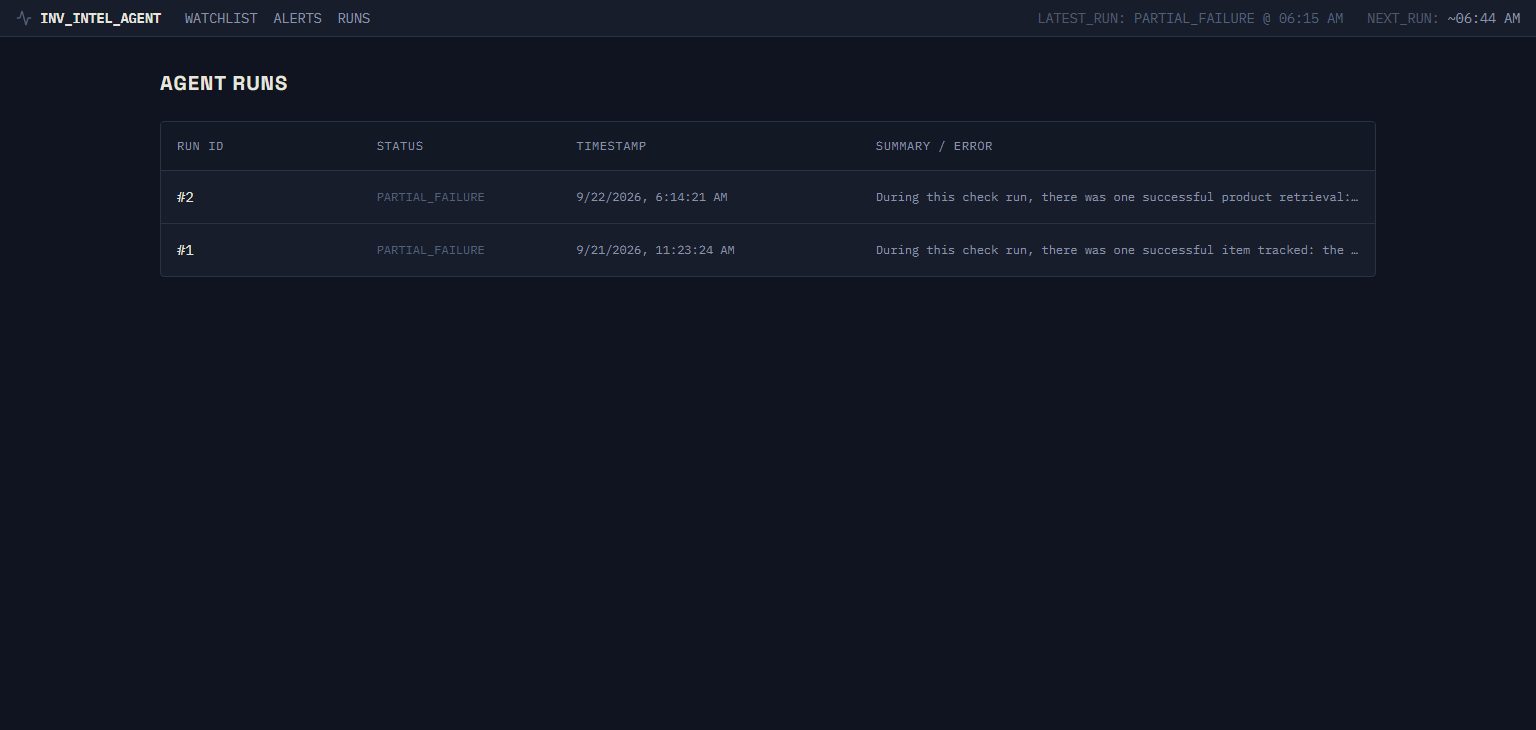
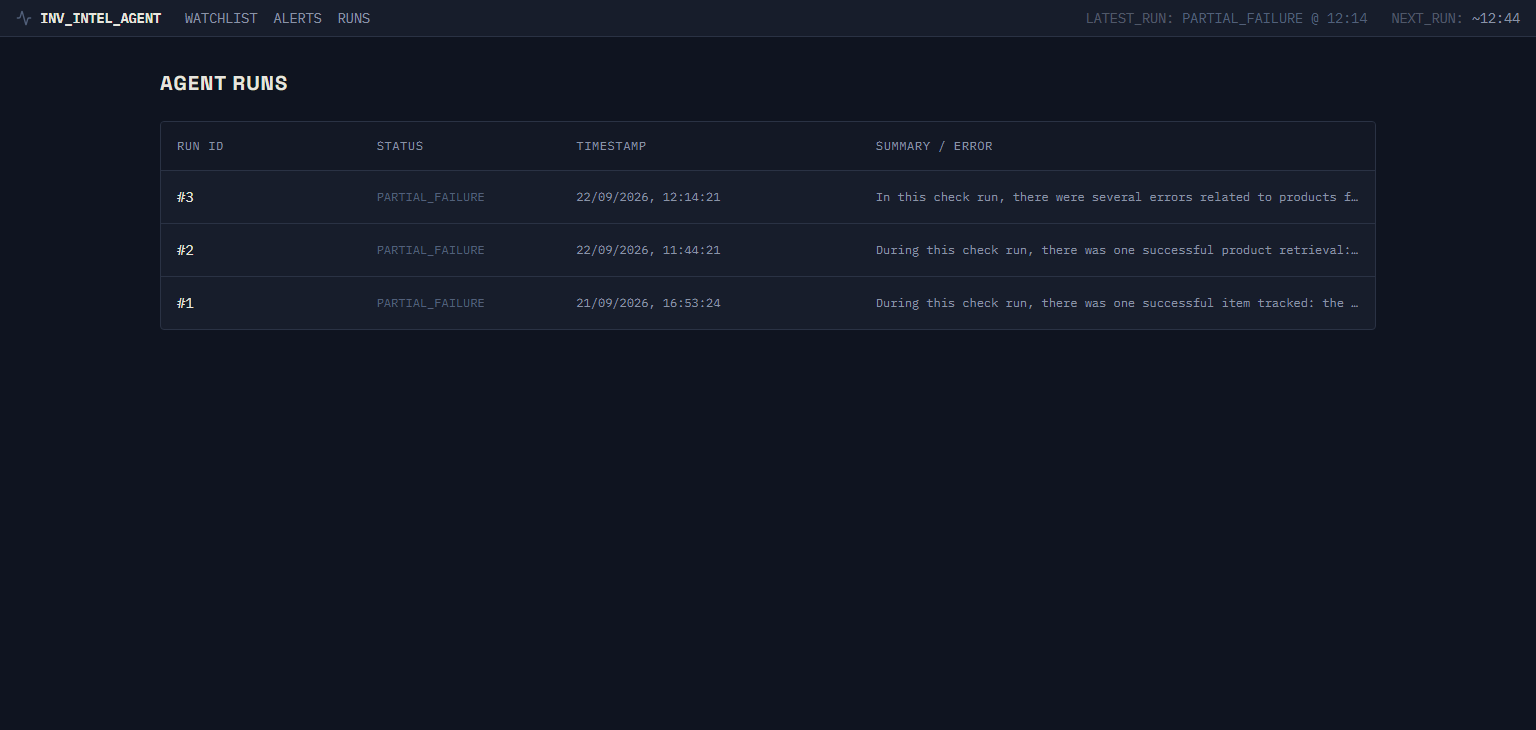
Fix dashboard routing regressions and timezone display bug from redesign

diff --git a/dashboard/app/layout.tsx b/dashboard/app/layout.tsx
@@ -3,6 +3,7 @@ import { Space_Grotesk, IBM_Plex_Mono } from "next/font/google";
 import "./globals.css";
 import Link from "next/link";
 import { Activity } from "lucide-react";
+import { LocalTime } from "./LocalTime";
 
 const spaceGrotesk = Space_Grotesk({ subsets: ["latin"], variable: "--font-space" });
 const plexMono = IBM_Plex_Mono({ weight: ['400', '500', '600', '700'], subsets: ["latin"], variable: "--font-plex" });
@@ -35,11 +36,10 @@ export default async function RootLayout({
   const latestRun = await getSystemState();
   const intervalMinutes = parseInt(process.env.AGENT_RUN_INTERVAL_MINUTES || "30", 10);
   
-  let nextRunTime = "Unknown";
+  let nextRunTimestamp: string | number = "Unknown";
   if (latestRun && latestRun.started_at) {
       const lastRunTime = new Date(latestRun.started_at).getTime();
-      const nextRunDate = new Date(lastRunTime + intervalMinutes * 60000);
-      nextRunTime = nextRunDate.toLocaleTimeString([], { hour: '2-digit', minute: '2-digit' });
+      nextRunTimestamp = lastRunTime + intervalMinutes * 60000;
   }
 
   let statusColor = "text-neutral";
@@ -68,16 +68,18 @@ export default async function RootLayout({
           <div className="flex items-center gap-4 sm:gap-6 text-text-secondary">
             {latestRun ? (
               <>
-                <div className="flex gap-2">
+                <div className="flex gap-2 items-center">
                   <span className="opacity-50 hidden sm:inline">LATEST_RUN:</span>
                   <span className={statusColor}>
                     {latestRun.status.toUpperCase()}
-                    {latestRun.finished_at && ` @ ${new Date(latestRun.finished_at).toLocaleTimeString([], { hour: '2-digit', minute: '2-digit' })}`}
+                    {latestRun.finished_at && (
+                      <> @ <LocalTime timestamp={latestRun.finished_at} format="time" /></>
+                    )}
                   </span>
                 </div>
-                <div className="flex gap-2">
+                <div className="flex gap-2 items-center">
                   <span className="opacity-50 hidden sm:inline">NEXT_RUN:</span>
-                  <span>~{nextRunTime}</span>
+                  <span>~<LocalTime timestamp={nextRunTimestamp} format="time" /></span>
                 </div>
               </>
             ) : (

diff --git a/dashboard/app/runs/[id]/page.tsx b/dashboard/app/runs/[id]/page.tsx
@@ -1,4 +1,5 @@
 import Link from "next/link";
+import { LocalTime } from "../../LocalTime";
 
 export const revalidate = 0;
 
@@ -12,8 +13,9 @@ async function getRun(id: string) {
   return res.json();
 }
 
-export default async function RunDetailPage({ params }: { params: { id: string } }) {
-  const run = await getRun(params.id);
+export default async function RunDetailPage({ params }: { params: Promise<{ id: string }> }) {
+  const { id } = await params;
+  const run = await getRun(id);
 
   if (!run) return <div>Run not found</div>;
 
@@ -29,7 +31,7 @@ export default async function RunDetailPage({ params }: { params: { id: string }
         <div className="px-4 py-5 sm:px-6">
           <h3 className="text-lg leading-6 font-medium text-gray-900">Agent Run #{run.id}</h3>
           <p className="mt-1 max-w-2xl text-sm text-gray-500">
-            Started: {new Date(run.started_at).toLocaleString()} | Status: {run.status}
+            Started: <LocalTime timestamp={run.started_at} format="datetime" /> | Status: {run.status}
           </p>
         </div>
         <div className="border-t border-gray-200 px-4 py-5 sm:px-6">

diff --git a/dashboard/app/LocalTime.tsx b/dashboard/app/LocalTime.tsx
@@ -1,0 +1,22 @@
+"use client";
+
+import { useEffect, useState } from "react";
+
+export function LocalTime({ timestamp, format = "datetime" }: { timestamp: string | number, format?: "datetime" | "time" | "date" }) {
+  const [localTime, setLocalTime] = useState<string>("");
+
+  useEffect(() => {
+    const d = new Date(timestamp);
+    if (format === "time") {
+      setLocalTime(d.toLocaleTimeString([], { hour: '2-digit', minute: '2-digit' }));
+    } else if (format === "date") {
+      setLocalTime(d.toLocaleDateString());
+    } else {
+      setLocalTime(d.toLocaleString());
+    }
+  }, [timestamp, format]);
+
+  // Prevent hydration mismatch by rendering empty or a placeholder on the server
+  // or rendering the raw string, but it's safer to just return nothing or the server-rendered UTC until mounted.
+  return <span suppressHydrationWarning>{localTime || "---"}</span>;
+}

diff --git a/dashboard/app/alerts/page.tsx b/dashboard/app/alerts/page.tsx
@@ -1,4 +1,5 @@
 import Link from "next/link";
+import { LocalTime } from "../LocalTime";
 
 export const revalidate = 0;
 
@@ -52,7 +53,7 @@ export default async function AlertsPage() {
             return (
               <div key={alert.id} className="grid grid-cols-1 sm:grid-cols-12 gap-4 p-4 items-center text-sm hover:bg-ink/30 transition-colors">
                 <div className="col-span-1 sm:col-span-3 font-mono text-text-secondary text-xs">
-                  {new Date(alert.timestamp).toLocaleString()}
+                  <LocalTime timestamp={alert.timestamp} format="datetime" />
                 </div>
                 
                 <div className="col-span-1 sm:col-span-2 font-mono text-xs uppercase">

diff --git a/dashboard/app/runs/page.tsx b/dashboard/app/runs/page.tsx
@@ -1,4 +1,5 @@
 import Link from "next/link";
+import { LocalTime } from "../LocalTime";
 
 export const revalidate = 0;
 
@@ -54,7 +55,7 @@ export default async function RunsPage() {
                   </div>
                   
                   <div className="col-span-1 sm:col-span-3 font-mono text-text-secondary text-xs">
-                    {new Date(run.started_at).toLocaleString()}
+                    <LocalTime timestamp={run.started_at} format="datetime" />
                   </div>
                   
                   <div className="col-span-1 sm:col-span-5 font-mono text-xs">

diff --git a/dashboard/app/products/[id]/page.tsx b/dashboard/app/products/[id]/page.tsx
@@ -28,8 +28,9 @@ async function getProductAndHistory(id: string) {
   }
 }
 
-export default async function ProductPage({ params }: { params: { id: string } }) {
-  const { product, priceHistory, stockHistory } = await getProductAndHistory(params.id);
+export default async function ProductPage({ params }: { params: Promise<{ id: string }> }) {
+  const { id } = await params;
+  const { product, priceHistory, stockHistory } = await getProductAndHistory(id);
 
   if (!product) {
     return (

diff --git a/get_header.py b/get_header.py
@@ -1,0 +1,21 @@
+import asyncio
+from playwright.async_api import async_playwright
+
+async def run():
+    async with async_playwright() as p:
+        browser = await p.chromium.launch()
+        page = await browser.new_page()
+        await page.goto("http://localhost:3000/")
+        await page.wait_for_timeout(2000)
+        
+        # Get the header text
+        header_text = await page.evaluate('''() => {
+            const header = document.querySelector('header');
+            return header ? header.innerText.replace(/\\n/g, ' ') : 'No header found';
+        }''')
+        print(f"HEADER_TEXT: {header_text}")
+        
+        await browser.close()
+
+if __name__ == '__main__':
+    asyncio.run(run())
